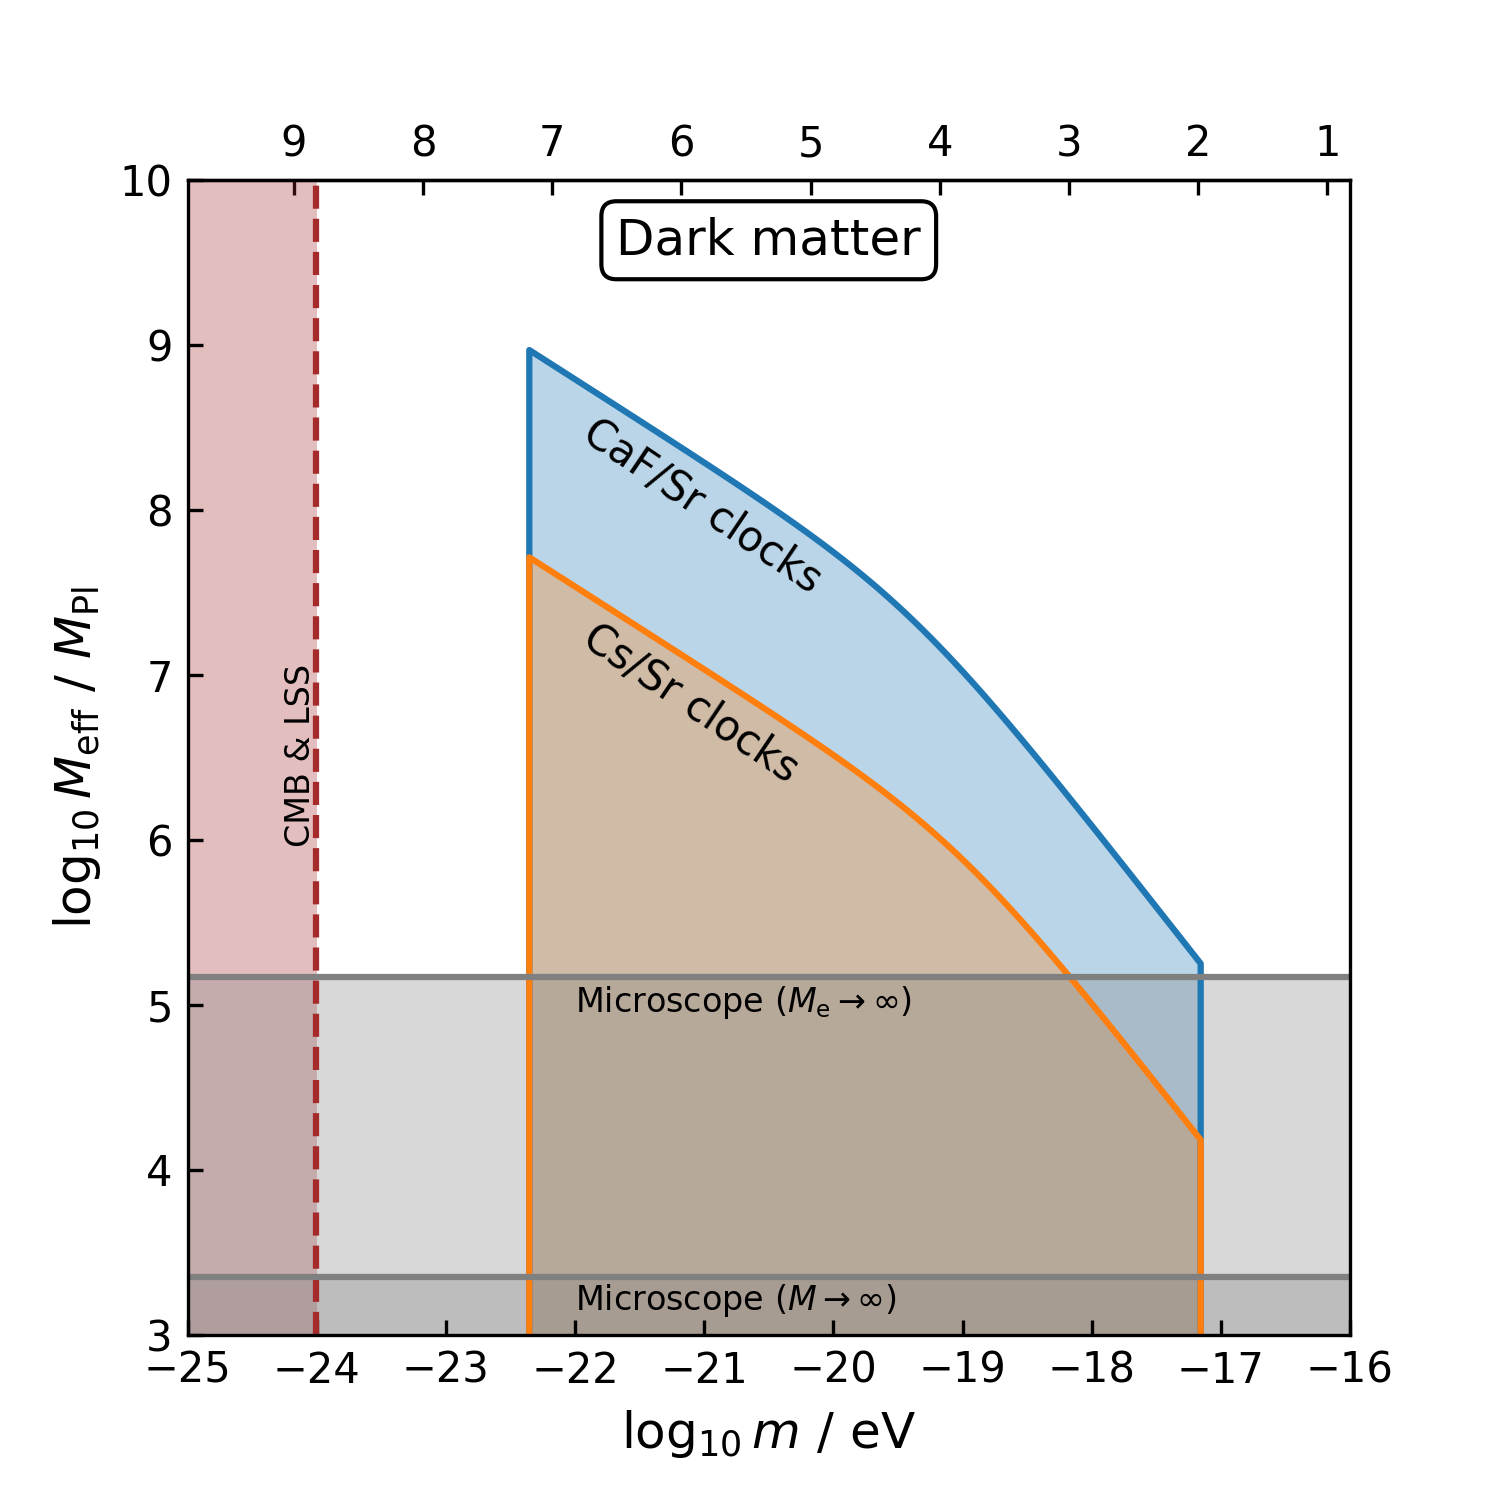
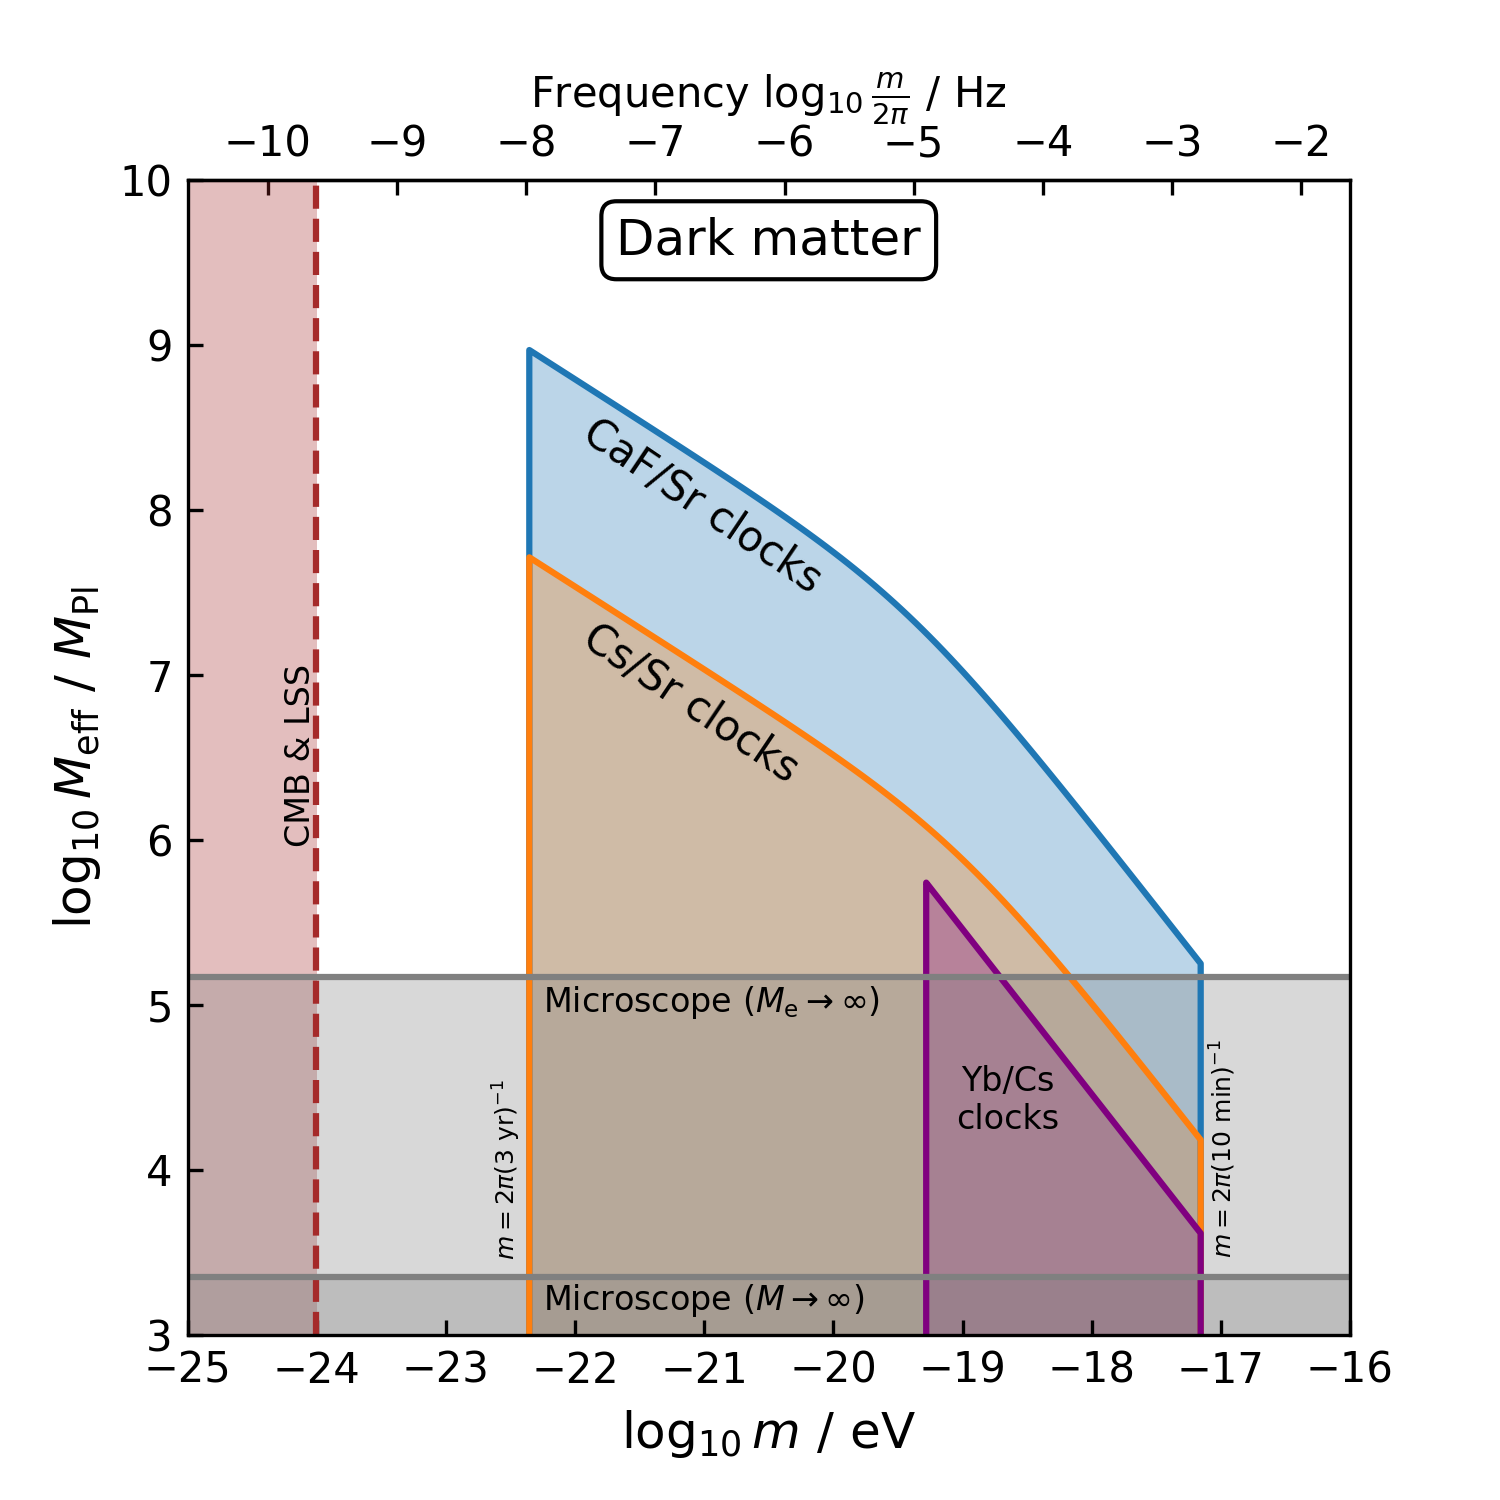
dm signal plot
Generalized signal

diff --git a/DM-plots.py b/DM-plots.py
@@ -7,9 +7,6 @@ import plot_options as po
 #import field_solutions as dphi
 import bounds
 
-
-PI = np.pi
-
 ### Ultralight dark matter bounds ###
 plt.figure(1, figsize=po.figsize)
 
@@ -21,11 +18,20 @@ X, Y = np.meshgrid(
 m = np.pow(10, X)
 Meff = Mpl * np.pow(10, Y)
 
-def clock_bound_ULDM(clocks, color):
+def clock_bound_raw(clocks):
     # Angular frequencies, and amplitudes, for the clock signals
     # Signals are ~ A / w * cos(w t), and both A, w are
     # in units of s^-1
-    w_vals, A_vals = mc.DM_max_amplitude(clocks)
+    if clocks == 'Sherrill':
+        w_vals, A_vals = mc.DM_max_amplitude_Sherrill()
+    else:
+        w_vals, A_vals = mc.DM_max_amplitude(clocks)
+
+    return w_vals, A_vals
+
+def clock_bound_ULDM(clocks, color):
+
+    w_vals, A_vals = clock_bound_raw(clocks)
 
     # Convert s^-1 to eV
     m = w_vals * hbar / c
@@ -34,8 +40,10 @@ def clock_bound_ULDM(clocks, color):
     rho = rho_DM_local
 
     # Solve for the M that saturates the bound.
-    # Note that the w is already accounted for, as the signal
-    # is = A / w * cos(w t)
+    # Note that the w is already accounted for:
+    #   A / w = sqrt(2 rho_DM) / (Meff m)
+    # and w = m, so we only need
+    #   Meff = sqrt(2 rho) / A
     M = np.sqrt(2*rho) / (A_vals)
 
     x,y = np.log10(m), np.log10(M / Mpl)
@@ -50,10 +58,11 @@ def clock_bound_ULDM(clocks, color):
     plt.fill_between(x, 0, y, alpha=0.3, color=color)
     return
 
-
 # Clocks
 clock_bound_ULDM('CaF/Sr', po.colorcycle[0])
 clock_bound_ULDM('Cs/Sr', po.colorcycle[1])
+
+clock_bound_ULDM('Sherrill', 'purple')
 
 # CMB
 col = 'brown'
@@ -66,6 +75,7 @@ plt.text(-24.25, 6, r'CMB & LSS', rotation='vertical', fontsize=8)
 # Text labels for clocks
 plt.text(-22, 7.5, "CaF/Sr clocks", fontsize=10, rotation=-34)
 plt.text(-22, 6.35, "Cs/Sr clocks", fontsize=10, rotation=-34)
+plt.text(-18.65, 4.25, 'Yb/Cs\nclocks', ha='center', fontsize=8)
 
 # Microscope
 col = 'gray'
@@ -73,8 +83,10 @@ Z = bounds.microscope_massless(Meff, np.inf)
 plt.contour(X, Y, Z, levels = [0.5], colors=col)
 plt.contourf(X, Y, Z, levels = [0.5, 1], alpha = 0.3, colors=col)
 
-plt.text(-22, 4.96, r'Microscope ($M_\mathrm{e} \to \infty$)', fontsize=8)
-plt.text(-22, 3.15, r'Microscope ($M \to \infty$)', fontsize=8)
+plt.text(-22.25, 4.96, r'Microscope ($M_\mathrm{e} \to \infty$)',
+         fontsize=8)
+plt.text(-22.25, 3.15, r'Microscope ($M \to \infty$)',
+         fontsize=8)
 
 Z = bounds.microscope_massless(np.inf, Meff)
 plt.contour(X, Y, Z, levels = [0.5], colors=col)
@@ -90,24 +102,90 @@ props = po.title_box_properties
 plt.text(x_pos, 9.55, "Dark matter",
          ha='center', fontsize=12, bbox=props)
 
-def m_to_period(m):
-    m = np.pow(10, m)
-    T = hbar / (c * m)
-    return np.log10(T)
 
-def period_to_m(T):
-    T = np.pow(10, T)
-    m = hbar / (c * T)
+# Second axis
+ax = plt.gca()
+# Functions for converting to/from the second axis units
+def m_to_Hz(m):
+    # m = w = 2 pi f
+    m = np.pow(10, m)
+    f = m / (2*PI)
+    f *= c / hbar   # convert to s^-1
+    return np.log10(f)
+
+def Hz_to_m(f):
+    f = np.pow(10, f)
+    m = 2*PI*f
+    m *= hbar / c
     return np.log10(m)
 
-ax = plt.gca()
-ax2 = ax.secondary_xaxis('top', functions=(m_to_period, period_to_m))
+ax2 = ax.secondary_xaxis('top', functions=(m_to_Hz, Hz_to_m))
 ax2.tick_params(direction='in')
+ax2.set_xlabel(r'Frequency $\log_{10} \frac{m}{2\pi} ~/~ \mathrm{Hz}$',
+               fontsize=10)
+
+plt.text(-17.1, 3.5, r"$m = 2 \pi (10~\mathrm{min})^{-1}$",
+         fontsize = 6, rotation='vertical', ha='left')
+plt.text(-22.65, 3.5, r"$m = 2 \pi (3~\mathrm{yr})^{-1}$",
+         fontsize = 6, rotation='vertical', ha='left')
+
 
 plt.xlabel(r"$\log_{10} m ~/~ \mathrm{eV}$", fontsize=12)
 plt.ylabel(r"$\log_{10} M_\mathrm{eff} ~/~  M_\mathrm{Pl}$", fontsize=12)
 
 plt.savefig("plots/DM-M-vs-m.png", dpi=po.dpi_setting)
 
-plt.show()
+### Raw signal constraint plot ###
 
+plt.figure(2, figsize=po.figsize)
+
+xmin, xmax = -9, -2
+ymin, ymax = -26, -15
+X, Y = np.meshgrid(
+        np.linspace(xmin, xmax, po.resolution),
+        np.linspace(ymin, ymax, po.resolution))
+
+def draw_raw_clock_bound(clocks, color):
+    w_vals, A_vals = clock_bound_raw(clocks)
+
+    # Convert from angular frequency to Hz
+    # w = 2 pi f
+    f_vals = w_vals / (2*PI)
+
+    x = np.log10(f_vals)
+    y = np.log10(A_vals)
+
+    x = np.concatenate( ([x[0]], x, [x[-1]]) )
+    y = np.concatenate( ([0], y, [0]) )
+
+    plt.plot(x, y, color=color)
+    plt.fill_between(x, y, 0, alpha=0.3, color=color)
+    return
+
+draw_raw_clock_bound('CaF/Sr', po.colorcycle[0])
+draw_raw_clock_bound('Cs/Sr', po.colorcycle[1])
+draw_raw_clock_bound('Sherrill', 'purple')
+
+plt.text(-7.5, -23.35, "CaF/Sr clocks", fontsize=10, rotation=17)
+plt.text(-7.5, -22.1, "Cs/Sr clocks", fontsize=10, rotation=17)
+plt.text(-4, -19, 'Yb/Cs\nclocks', ha='center', fontsize=8)
+
+plt.text(-2.72, -18, r"$f = (10~\mathrm{min})^{-1}$",
+         fontsize = 6, rotation='vertical', ha='left')
+plt.text(-8.2, -18, r"$f = (3~\mathrm{yr})^{-1}$",
+         fontsize = 6, rotation='vertical', ha='left')
+
+plt.xlim(xmin, xmax)
+plt.ylim(ymin, ymax)
+
+plt.tick_params(direction='in')
+plt.xlabel(r"Frequency $\log_{10} f ~/~ \mathrm{Hz}$", fontsize=12)
+plt.ylabel(r"Amplitude $\log_{10} A ~/~  \mathrm{s}^{-1}$", fontsize=12)
+
+props = po.title_box_properties
+x_pos = np.mean([xmin, xmax])
+plt.text(x_pos, -15.65, "Dark Matter Signal",
+         ha='center', fontsize=12, bbox=props)
+
+plt.savefig("plots/DM-A-vs-f.png", dpi=po.dpi_setting)
+plt.show()

diff --git a/physical_constants.py b/physical_constants.py
@@ -7,6 +7,8 @@ natural units in which c = hbar = 1.
 Here Mpl = (8 pi G)^{-1/2} is the reduced Planck mass.
 '''
 
+from math import pi as PI
+
 ### Fundamental constants ###
 hbar = 2e-5     # cm eV
 c    = 3e10     # cm s^-1

diff --git a/DE-plots.py b/DE-plots.py
@@ -153,4 +153,4 @@ plt.ylabel(r"$\log_{10} M_{\rm eff} ~/~ M_\mathrm{Pl}$", fontsize=12)
 
 plt.savefig("plots/DE-Meff-vs-w.png", dpi=po.dpi_setting)
 
-#plt.show()
+plt.show()

diff --git a/bounds.py b/bounds.py
@@ -2,8 +2,6 @@ import numpy as np
 
 from physical_constants import *
 
-PI = np.pi
-
 microscope_eta = np.sqrt(2.3**2 + 1.5**2) * 1e-15
 microscope_r = 7000 * 1e5 / hbar
 

diff --git a/field_solutions.py b/field_solutions.py
@@ -10,7 +10,7 @@
 
 import numpy as np
 
-PI = np.pi
+from math import pi as PI
 
 def massless(M_obj, r, M):
     """ Massless scalar """
